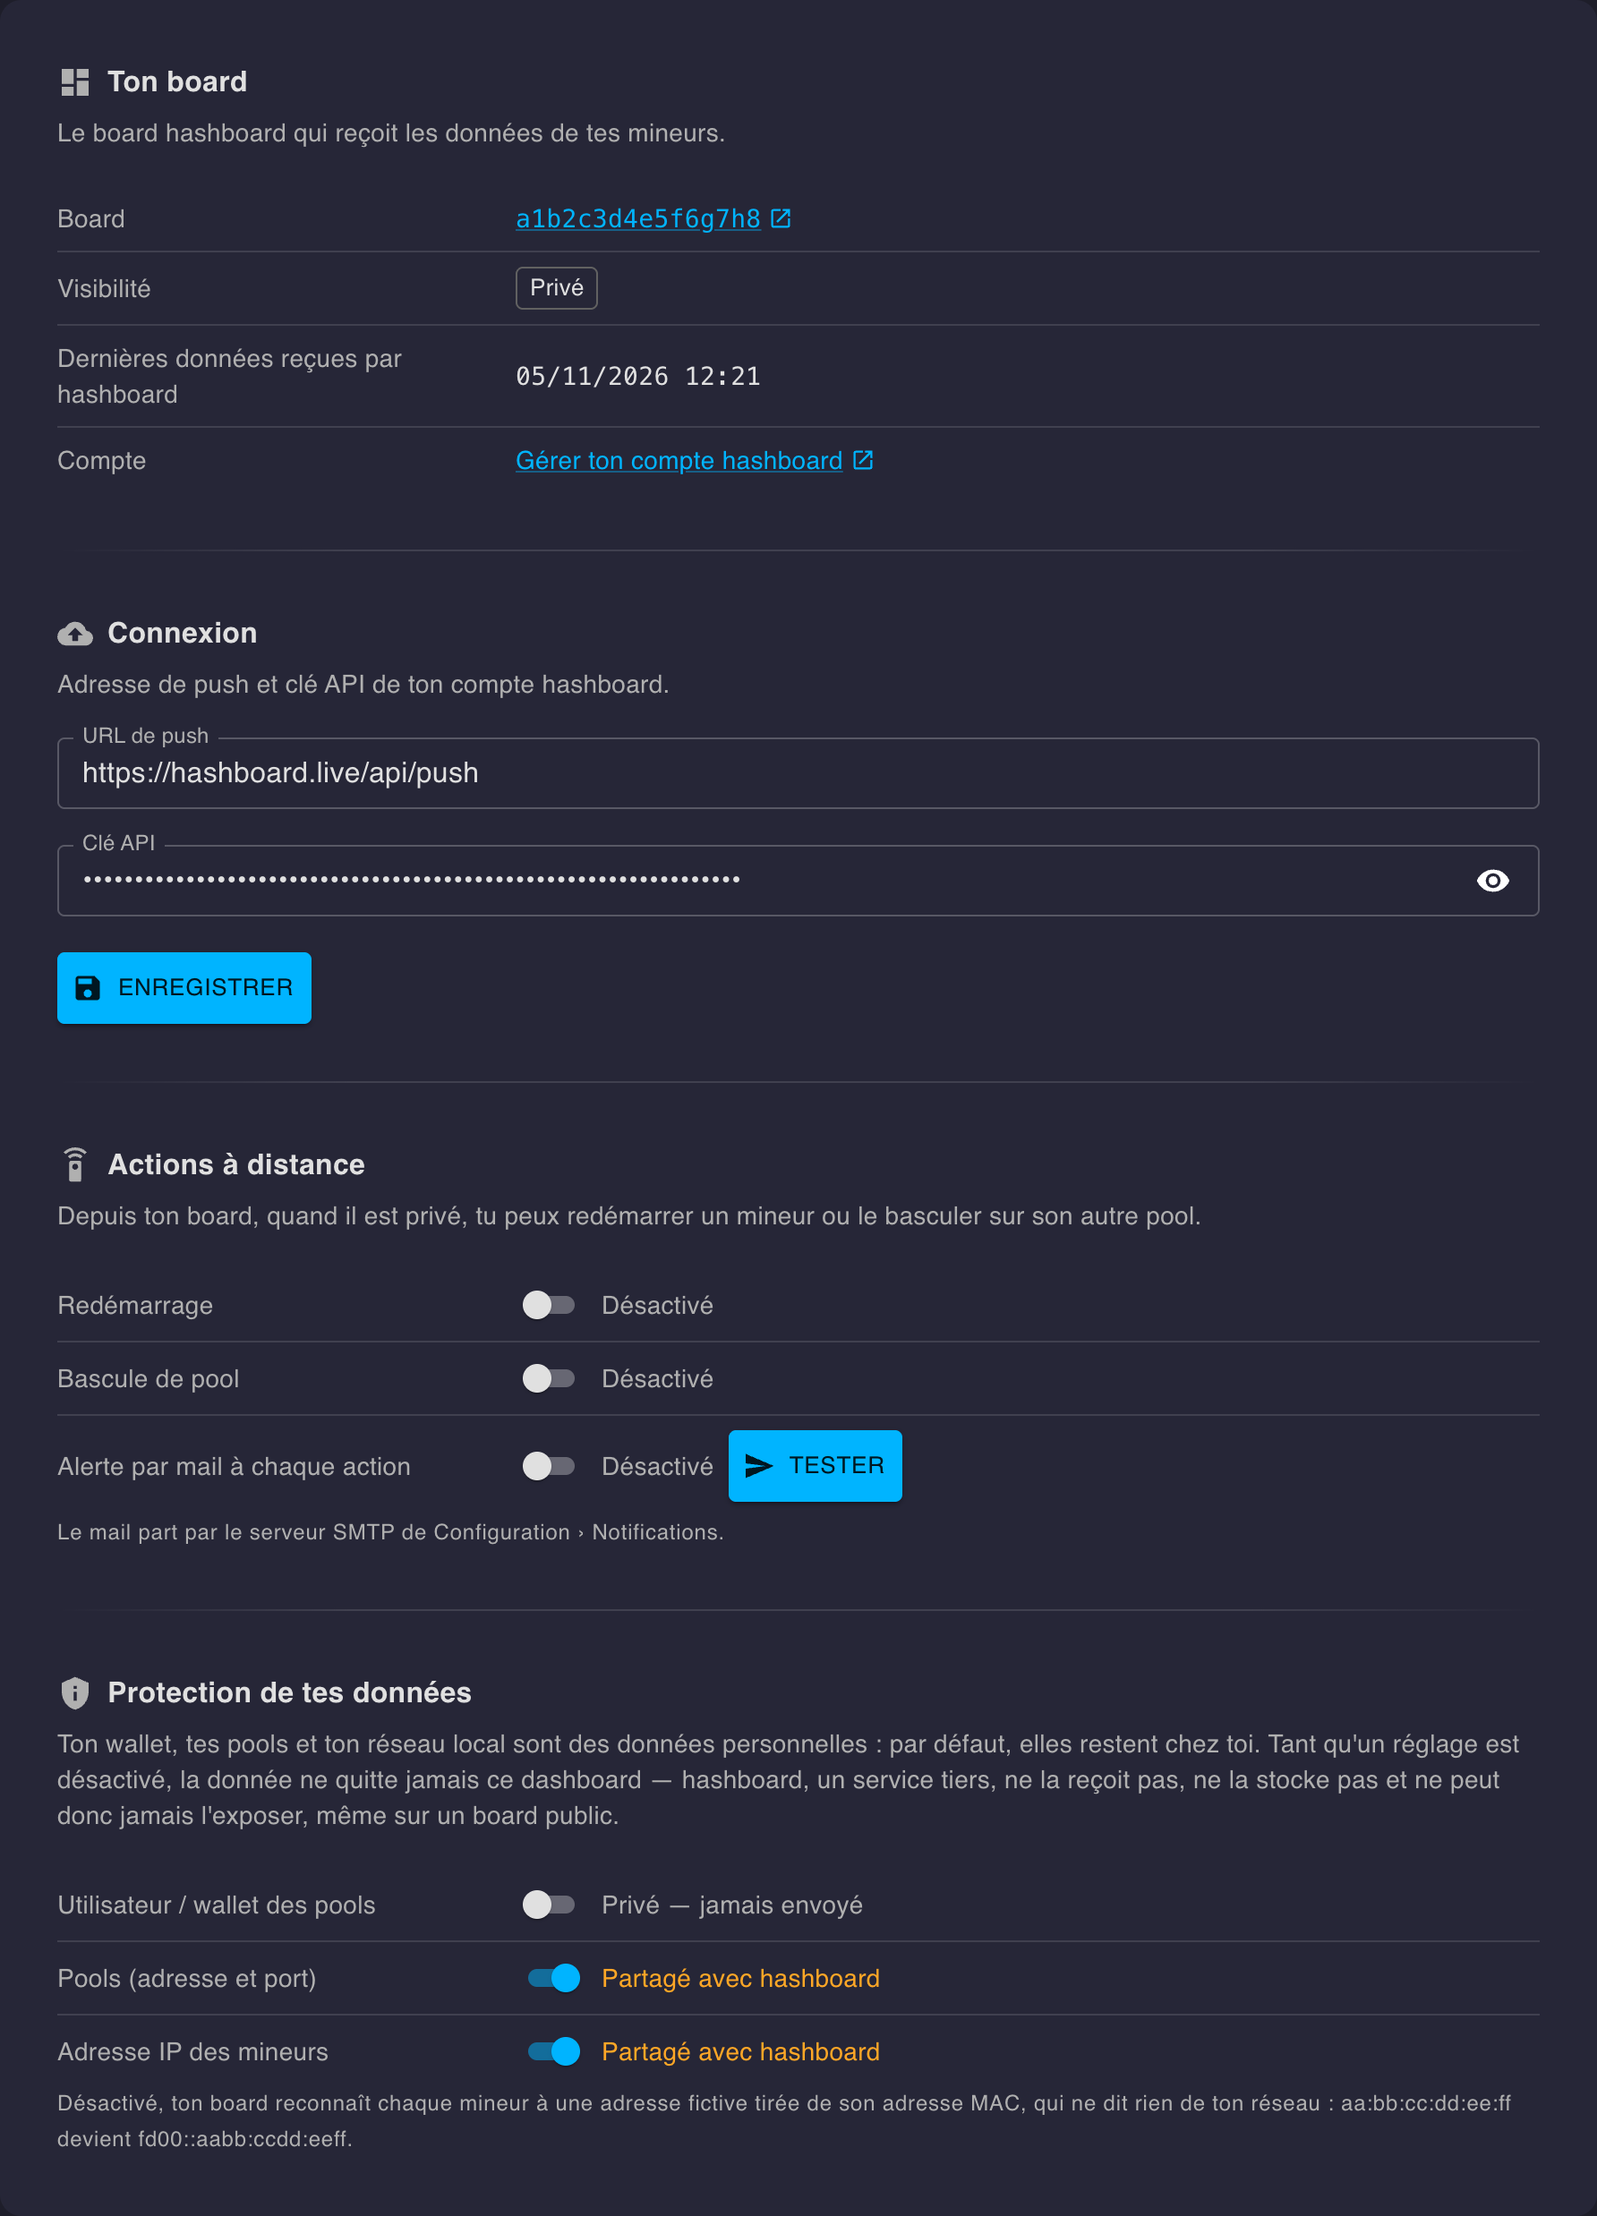
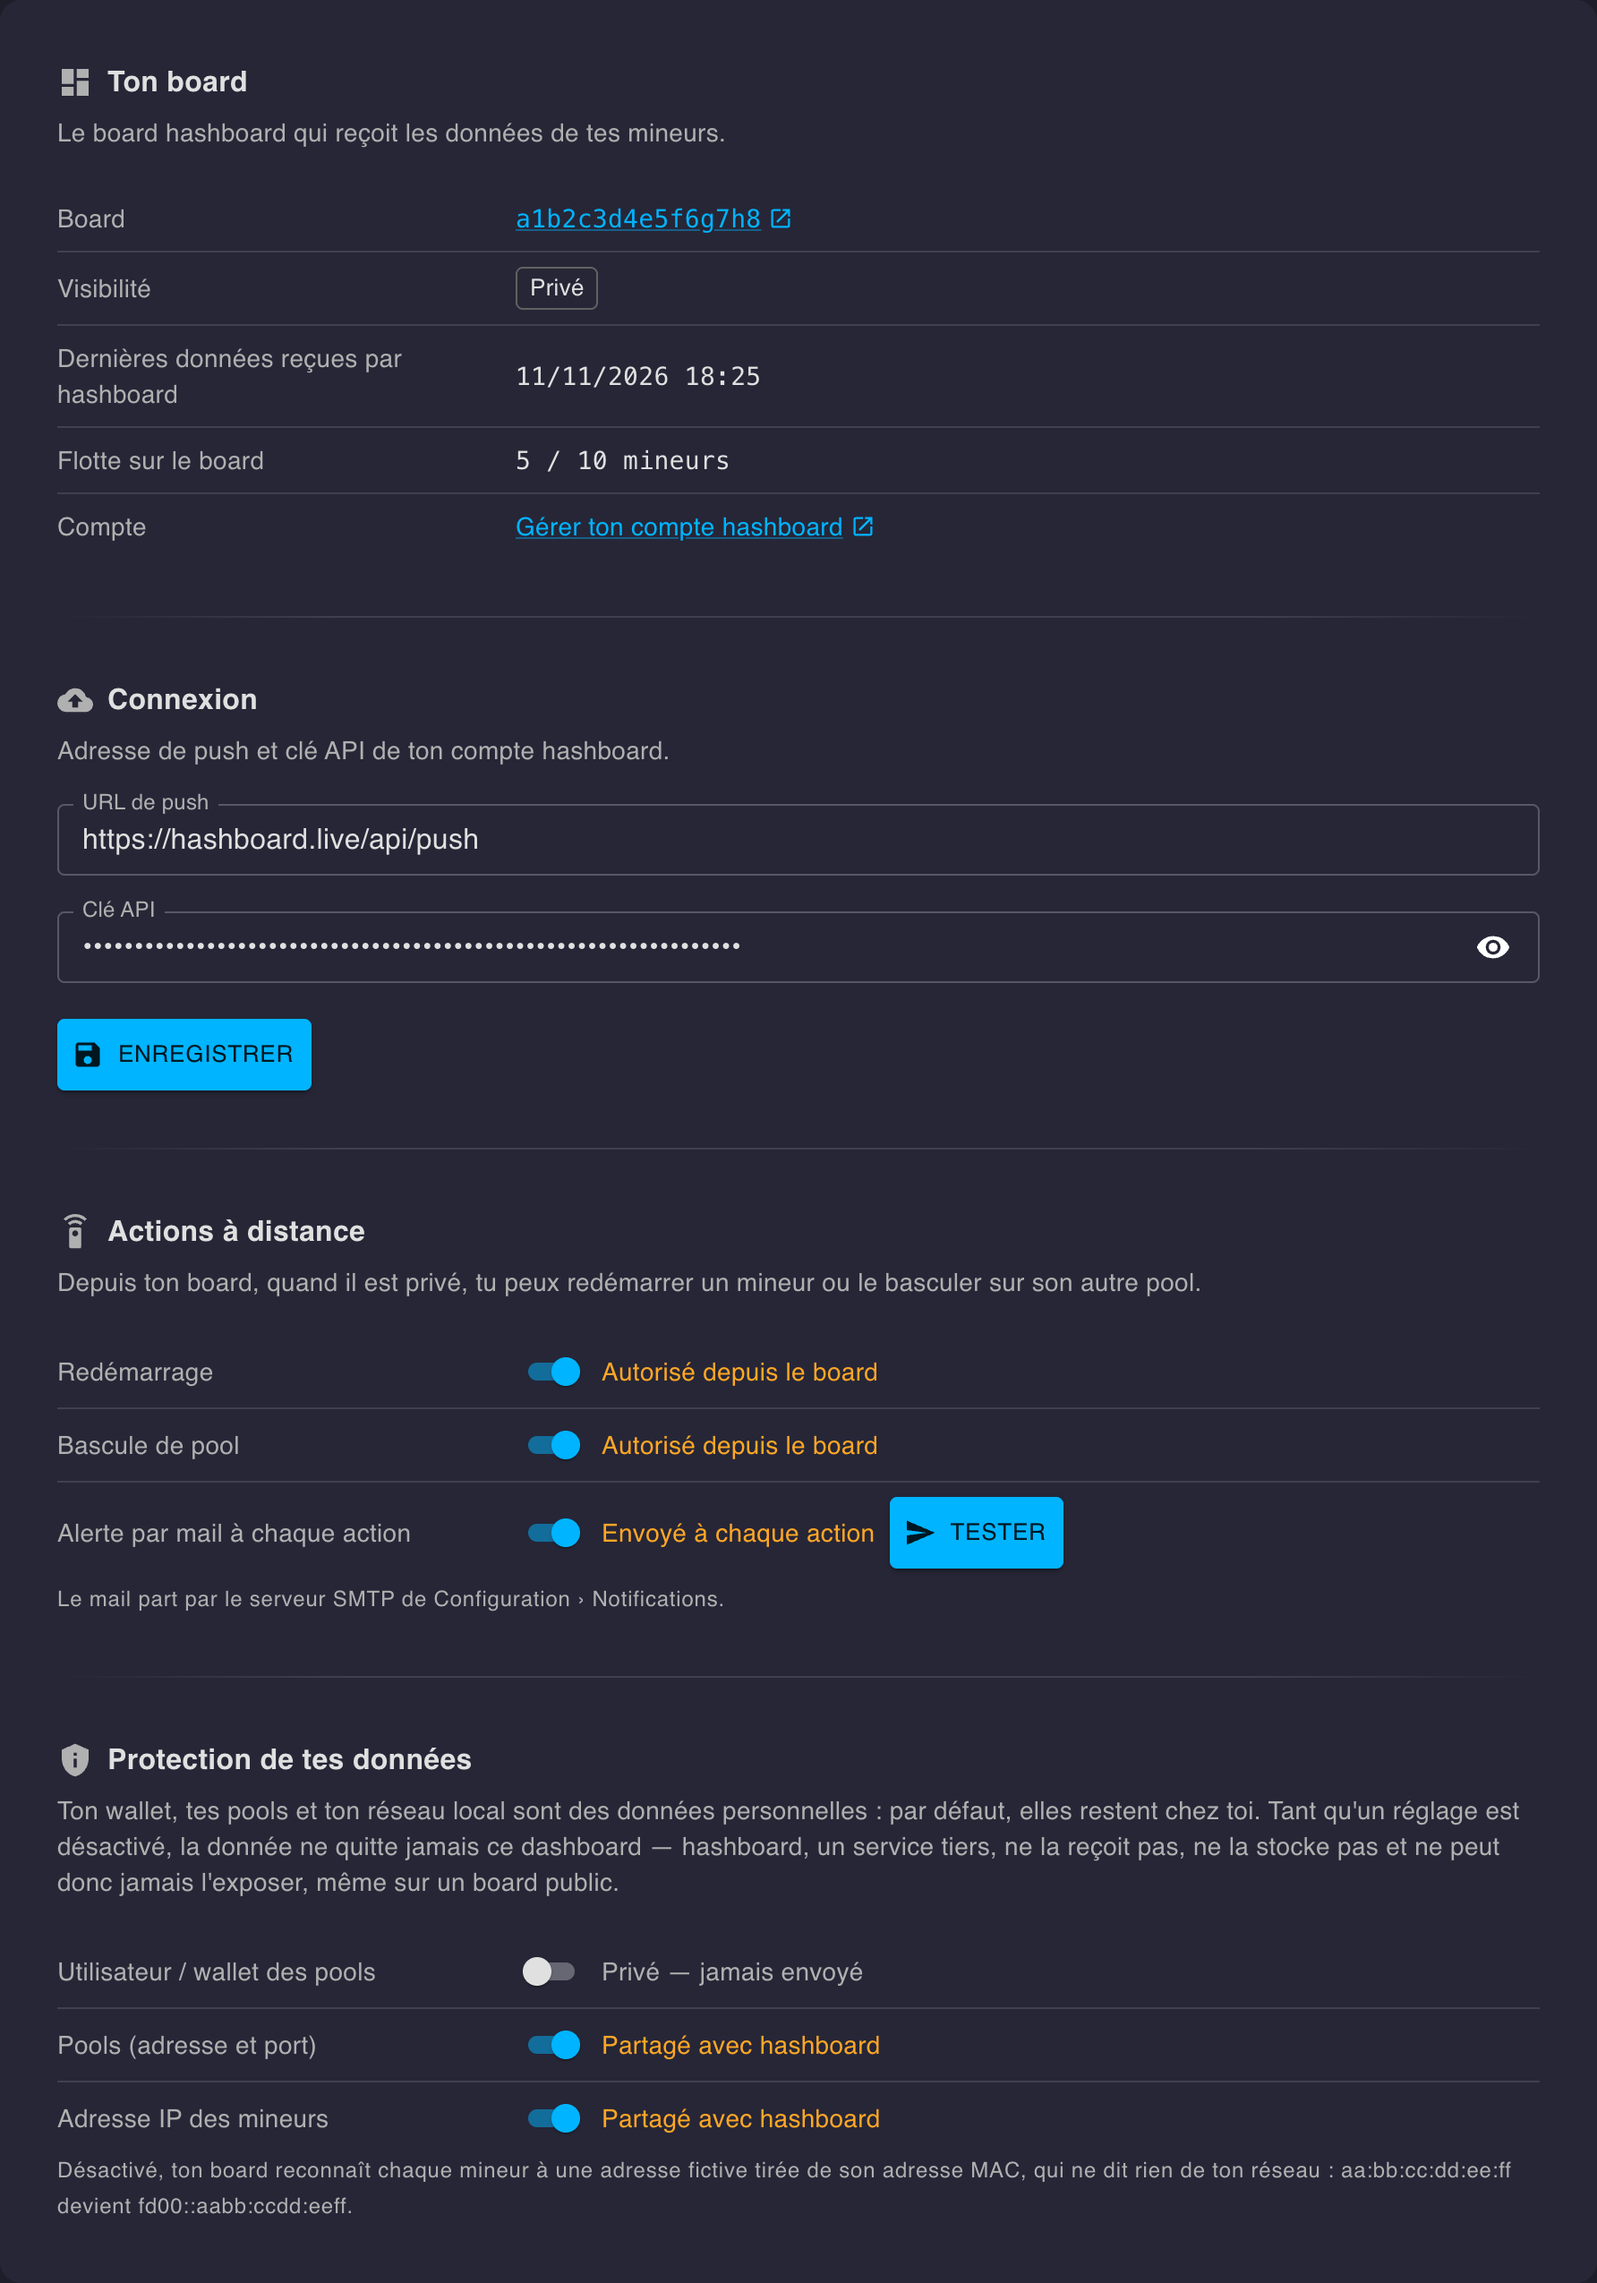
docs: Remote's screenshot with the fleet on the board, its link alert
- settings-remote.png again from the Pi: "Flotte sur le board 5 / 10".
- Connection says what its alert tells (key refused, hashboard silent),
  the menu's orange dot and the link to hashboard's Remote page; the
  remote actions' audit service is "Board" now (FR + EN).

diff --git a/docs/configuration.md b/docs/configuration.md
@@ -332,12 +332,15 @@ pour suivre votre flotte depuis n'importe où, sans VPN.
   contient sur sa limite — avec ceux qui la dépassent, pas envoyés — et un
   lien vers votre compte.
 - **Connexion** — l'URL de push et votre clé API hashboard, puis
-  **Enregistrer**. Une URL vide coupe l'envoi.
+  **Enregistrer**. Une URL vide coupe l'envoi. Si hashboard refuse la clé
+  ou ne répond pas, une alerte le dit ici (avec un point orange sur
+  l'entrée **Distant** du menu) ; pour une clé refusée, elle mène à votre
+  page Distant sur hashboard, où se trouve la nouvelle.
 - **Actions à distance** — depuis votre board privé, vous pouvez
   redémarrer un mineur ou le basculer sur son autre pool. Un interrupteur
   pour le redémarrage, un pour la bascule : seules les actions autorisées
   apparaissent sur le board. Le dashboard récupère la demande dans la
-  minute, la fait, et l'inscrit dans l'audit (service *Board distant*, avec
+  minute, la fait, et l'inscrit dans l'audit (service *Board*, avec
   l'IP d'où elle a été demandée). Un troisième interrupteur envoie un mail à
   chaque action, par le serveur SMTP des Notifications ; **Tester** envoie un
   exemple de ce mail, une fois le serveur et un destinataire renseignés.

diff --git a/docs/en/configuration.md b/docs/en/configuration.md
@@ -321,12 +321,15 @@ follow your fleet from anywhere, no VPN needed.
   how many miners of your fleet it holds out of its limit — with the ones
   past it, not sent — and a link to your account.
 - **Connection** — the push URL and your hashboard API key, then
-  **Save**. A blank URL turns the push off.
+  **Save**. A blank URL turns the push off. If hashboard refuses the key
+  or doesn't answer, an alert says so here (with an orange dot on the
+  menu's **Remote** entry); for a refused key, it links to your Remote
+  page on hashboard, where the new one is.
 - **Remote actions** — from your private board, you can restart a miner
   or switch it to its other pool. One switch for the restart, one for the
   pool switch: only the actions allowed show on the board. The dashboard
   picks the request up within a minute, does it, and records it in the
-  audit (service *Remote board*, with the IP it was asked from). A third
+  audit (service *Board*, with the IP it was asked from). A third
   switch sends a mail on every action, through the Notifications' SMTP
   server; **Test** sends an example of it, once the server and a recipient
   are set.
